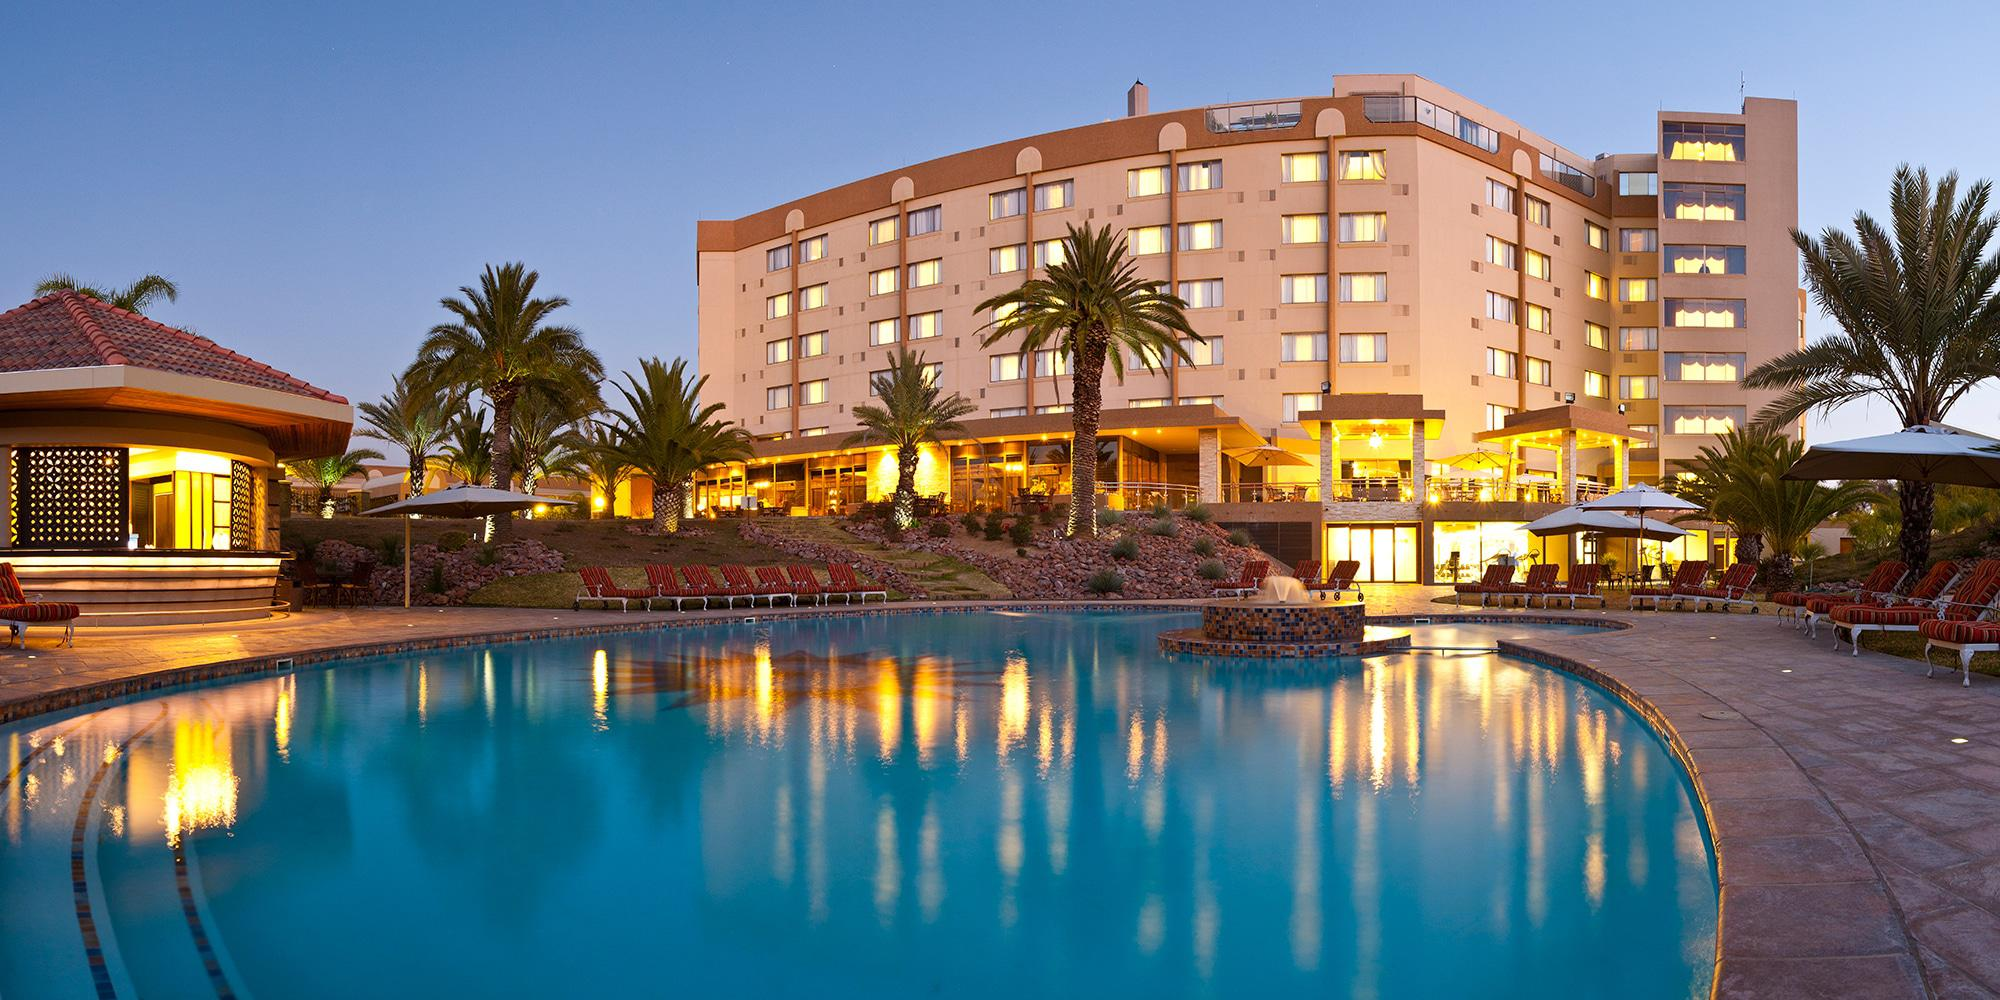
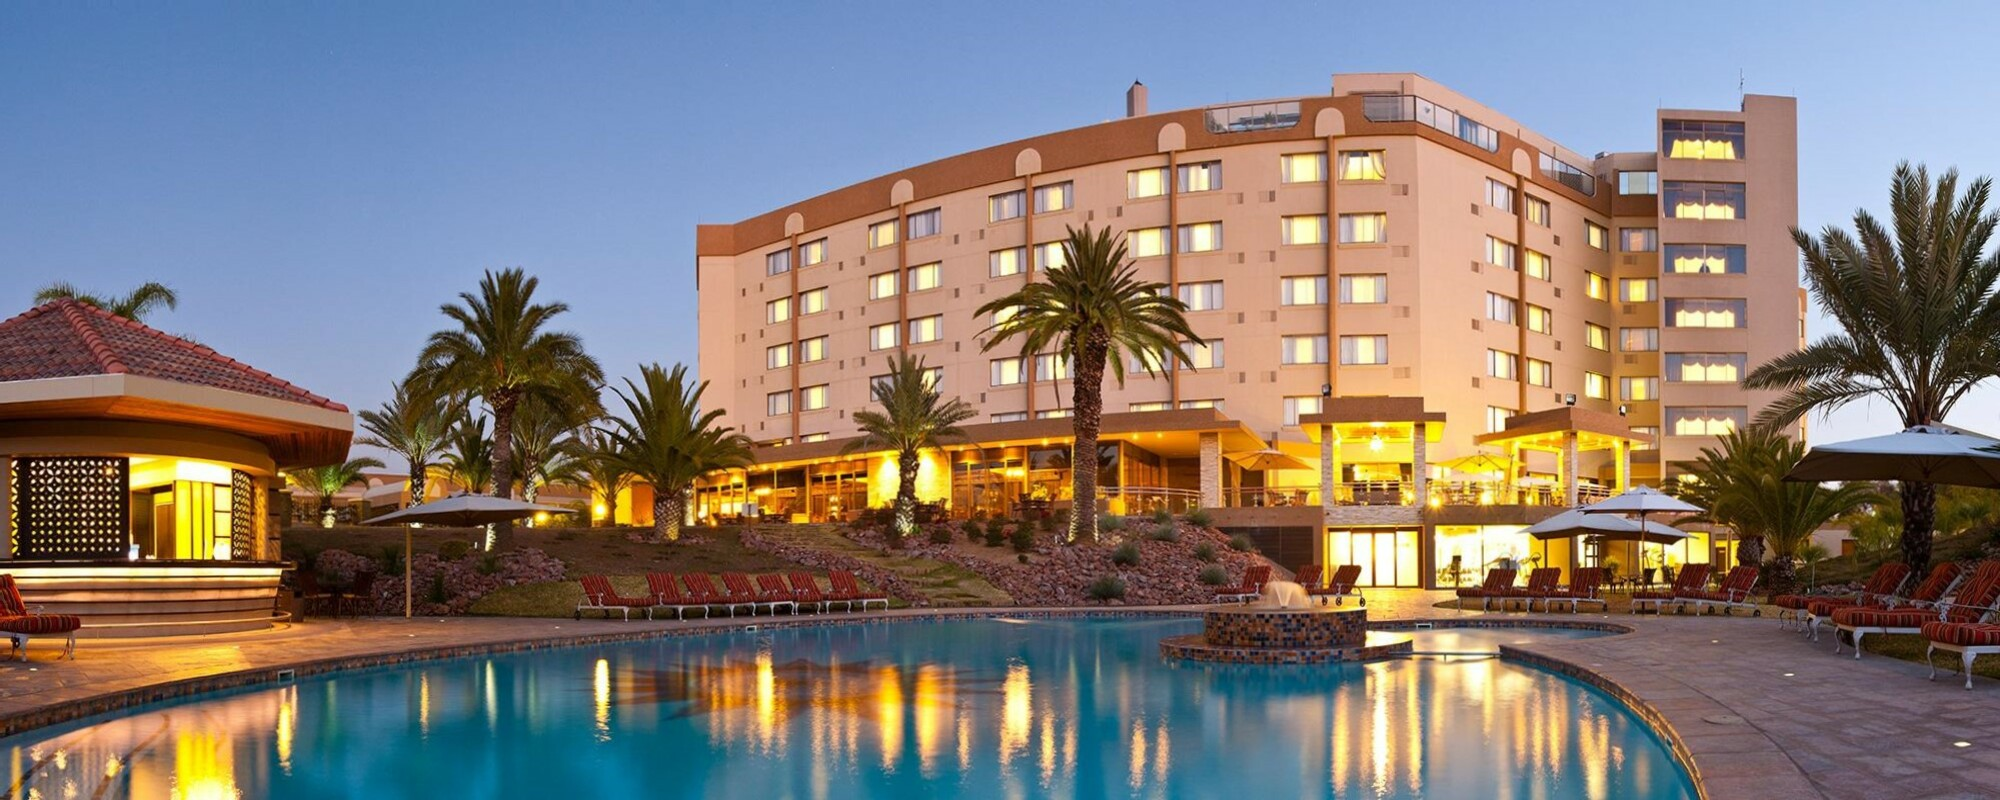
added new images

diff --git a/css/styles.css b/css/styles.css
@@ -80,16 +80,17 @@ nav ul li a:hover {
 /* Slideshow container */
 .slideshow-container {
   width: 100%;
-  max-height: 100%;
+  height: 100%;
   position: relative;
   margin: 0px;
-  object-fit: contain;
+  object-fit: cover;
 }
 
 /* Hide the images by default */
-/* .mySlides {
-  display: all;
-} */
+.mySlides img {
+  display: block;
+  object-fit: cover;
+}
 
 /* Next & previous buttons */
 .prev,
